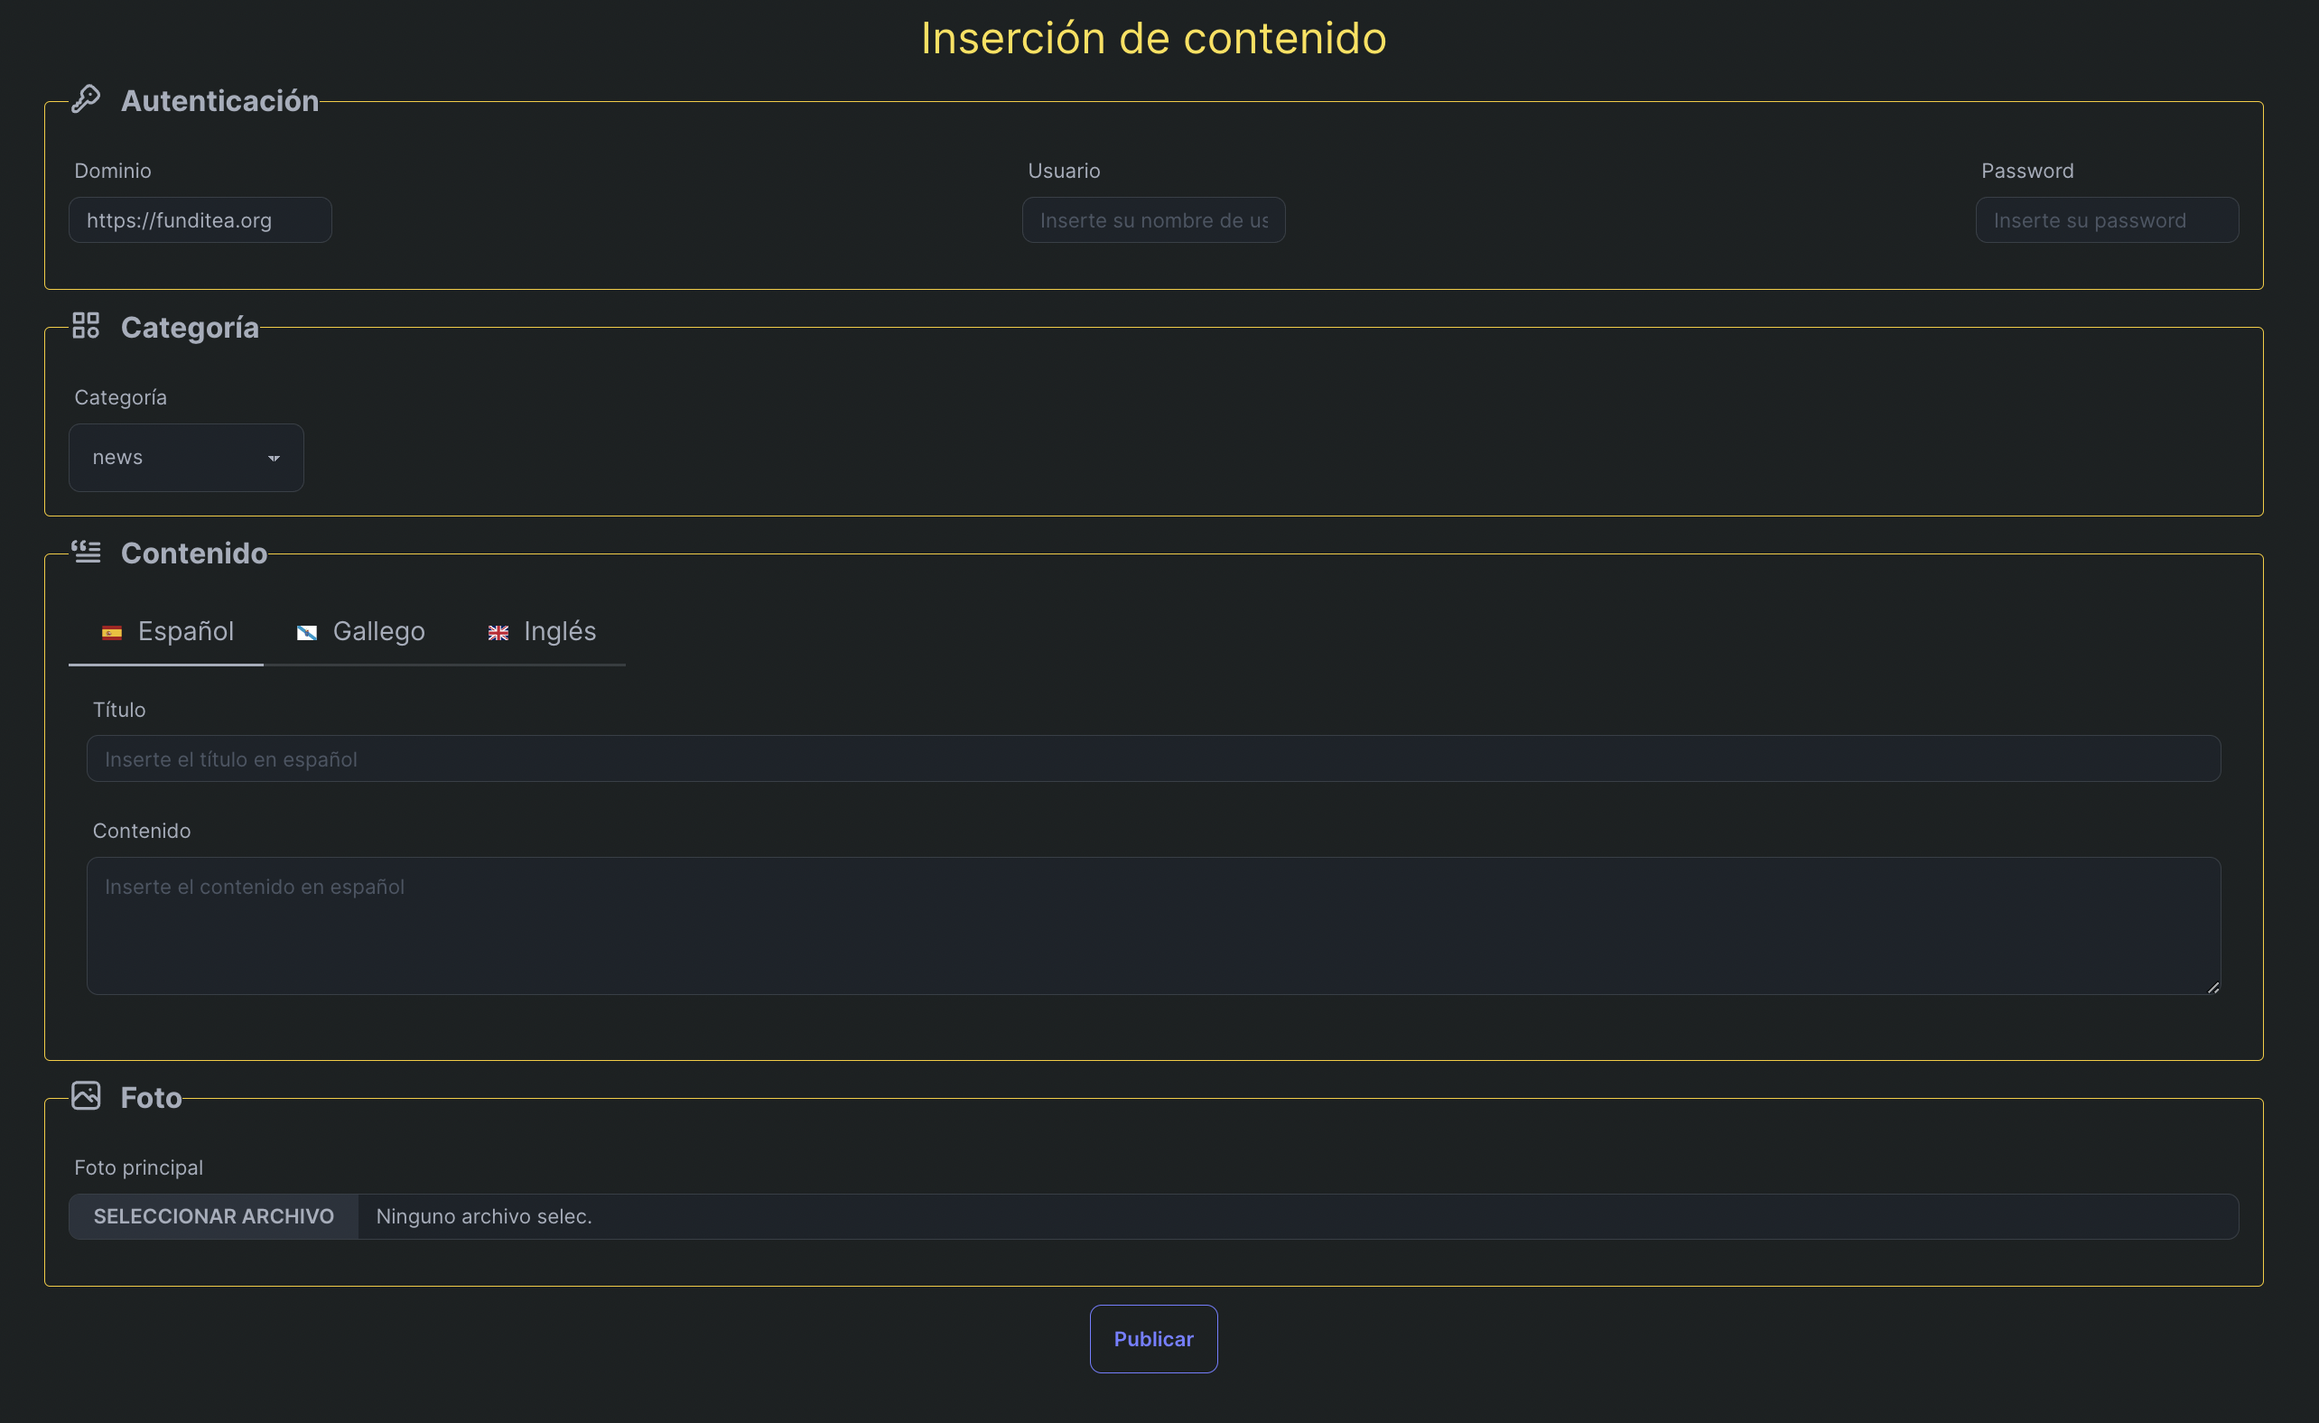
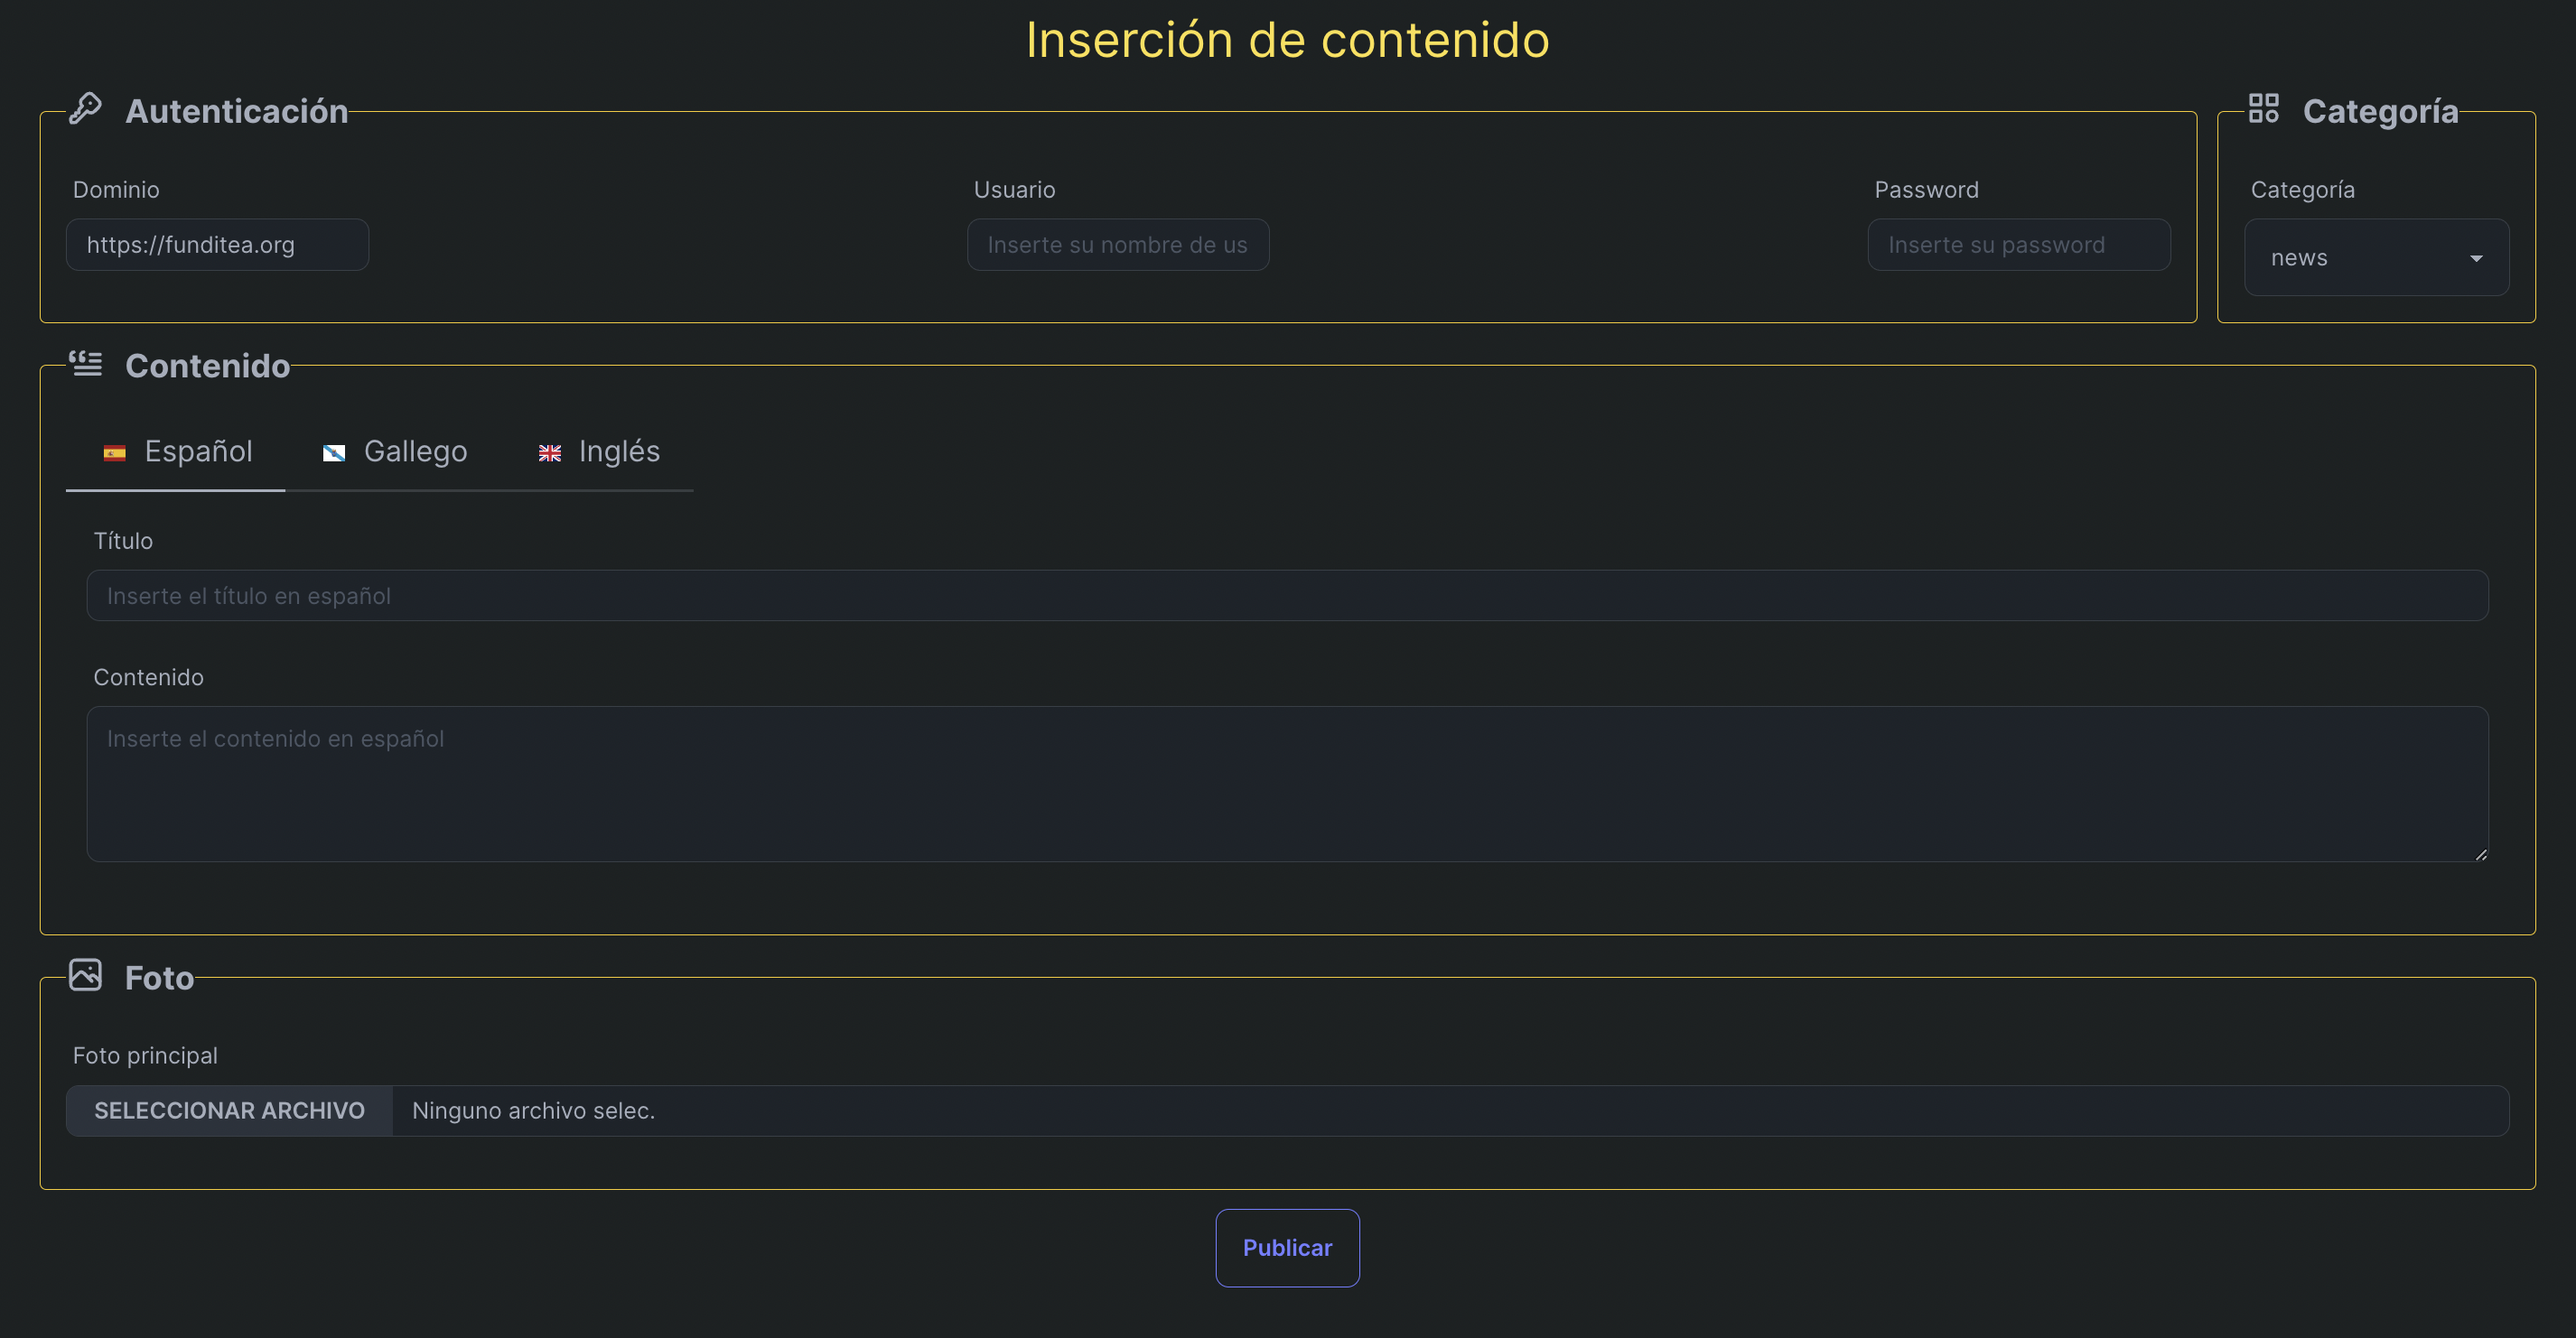
refactor

diff --git a/src/app/page.tsx b/src/app/page.tsx
@@ -12,6 +12,10 @@ import {useWindowSize} from 'react-use'
 import {ToastContainer, toast} from 'react-toastify'
 import 'react-toastify/dist/ReactToastify.css'
 import {IconBlockquote, IconCategory, IconKey, IconPhoto} from '@tabler/icons-react'
+import Autentication from './sections/autentication'
+import Category from './sections/category'
+import Content from './sections/content'
+import Picture from './sections/picture'
 
 function Home() {
   const [state, dispatch] = useFormState(wordpressAction, {message: null, errors: {}})
@@ -41,141 +45,13 @@ function Home() {
         {state.message}
       </div>
       <form action={dispatch} className="flex flex-col gap-3">
-        <fieldset className="border border-yellow-400 rounded p-4 flex flex-col">
-          <legend className="font-bold text-xl flex gap-3">
-            <IconKey /> Autenticación
-          </legend>
+        <div className="flex flex-col lg:flex-row grow gap-3 justify-between">
+          <Autentication state={state} />
+          <Category state={state} />
+        </div>
+        <Content state={state} />
+        <Picture state={state} />
 
-          <div className="flex flex-col justify-between gap-3 sm:flex-row">
-            <InputControl
-              value="https://funditea.org"
-              title="Dominio"
-              name="domain"
-              placeholder="Inserte el dominio. Ej https://cocacola.com"
-              errors={state.errors?.domain}
-            />
-            <InputControl
-              value=""
-              title="Usuario"
-              name="username"
-              placeholder="Inserte su nombre de usuario"
-              errors={state.errors?.username}
-            />
-            <InputControl
-              value=""
-              type="password"
-              title="Password"
-              name="password"
-              placeholder="Inserte su password"
-              errors={state.errors?.password}
-            />
-          </div>
-        </fieldset>
-        <fieldset className="border border-yellow-400 rounded p-4 flex flex-col">
-          <legend className="font-bold text-xl flex gap-3">
-            <IconCategory /> Categoría
-          </legend>
-          <SelectControl
-            title="Categoría"
-            name="category"
-            defaultValue="news"
-            options={['campaing', 'news', 'financiations', 'annualAccounts']}
-          />
-        </fieldset>
-        <fieldset className="border border-yellow-400 rounded p-4 flex flex-col">
-          <legend className="font-bold text-xl flex gap-3">
-            <IconBlockquote /> Contenido
-          </legend>
-
-          <div role="tablist" className="tabs tabs-bordered tabs-lg">
-            <input
-              type="radio"
-              defaultChecked={true}
-              name="my_tabs_1"
-              role="tab"
-              className={`tab before:content-flagES before:mr-2 ${
-                state.errors?.titleES || state.errors?.contentES ? 'text-red-400' : ''
-              }`}
-              aria-label="Español"
-            />
-            <div role="tabpanel" className="tab-content p-3">
-              <InputControl
-                title="Título"
-                name="titleES"
-                placeholder="Inserte el título en español"
-                errors={state.errors?.titleES}
-              />
-              <InputControl
-                type="textarea"
-                title="Contenido"
-                name="contentES"
-                placeholder="Inserte el contenido en español"
-                errors={state.errors?.contentES}
-              />
-            </div>
-            <input
-              type="radio"
-              name="my_tabs_1"
-              role="tab"
-              aria-label="Gallego"
-              className={`tab before:content-flagGL before:mr-2 ${
-                state.errors?.titleGL || state.errors?.contentGL ? 'text-red-400' : ''
-              }`}
-            />
-            <div role="tabpanel" className="tab-content p-3">
-              <InputControl
-                title="Título"
-                name="titleGL"
-                placeholder="Inserte el título en gallego"
-                errors={state.errors?.titleGL}
-              />
-              <InputControl
-                type="textarea"
-                title="Contenido"
-                name="contentGL"
-                placeholder="Inserte el contenido en gallego"
-                errors={state.errors?.contentGL}
-              />
-            </div>
-            <input
-              type="radio"
-              name="my_tabs_1"
-              role="tab"
-              aria-label="Inglés"
-              className={`tab before:content-flagEN before:mr-2 ${
-                state.errors?.titleEN || state.errors?.contentEN ? 'text-red-400' : ''
-              }`}
-            />
-            <div role="tabpanel" className="tab-content p-3">
-              <InputControl
-                title="Título"
-                name="titleEN"
-                placeholder="Inserte el título en ingles"
-                errors={state.errors?.titleEN}
-              />
-              <InputControl
-                type="textarea"
-                title="Contenido"
-                name="contentEN"
-                placeholder="Inserte el contenido en ingles"
-                errors={state.errors?.contentEN}
-              />
-            </div>
-          </div>
-        </fieldset>
-
-        <fieldset className="border border-yellow-400 rounded p-4 flex flex-col">
-          <legend className="font-bold text-xl flex gap-3">
-            <IconPhoto /> Foto
-          </legend>
-          <FileControl
-            title="Foto principal"
-            accept="image/*,.pdf"
-            name="file"
-            placeholder="Inserte una imagen"
-            errors={state.errors?.file}
-          />
-        </fieldset>
         {/* <ConfettiButton /> */}
         <SubmitButton className="btn btn-outline btn-primary self-center">Publicar</SubmitButton>
       </form>

diff --git a/src/app/sections/content.tsx b/src/app/sections/content.tsx
@@ -1,0 +1,94 @@
+import {IconBlockquote} from '@tabler/icons-react'
+import React from 'react'
+import InputControl from '../components/input-control'
+import {State} from '../actions/wordpressAction'
+interface Props {
+  state: State
+}
+function Content({state}: Props) {
+  return (
+    <fieldset className="border border-yellow-400 rounded p-4 flex flex-col">
+      <legend className="font-bold text-xl flex gap-3">
+        <IconBlockquote /> Contenido
+      </legend>
+
+      <div role="tablist" className="tabs tabs-bordered tabs-lg">
+        <input
+          type="radio"
+          defaultChecked={true}
+          name="my_tabs_1"
+          role="tab"
+          className={`tab before:content-flagES before:mr-2 ${
+            state.errors?.titleES || state.errors?.contentES ? 'text-red-400' : ''
+          }`}
+          aria-label="Español"
+        />
+        <div role="tabpanel" className="tab-content p-3">
+          <InputControl
+            title="Título"
+            name="titleES"
+            placeholder="Inserte el título en español"
+            errors={state.errors?.titleES}
+          />
+          <InputControl
+            type="textarea"
+            title="Contenido"
+            name="contentES"
+            placeholder="Inserte el contenido en español"
+            errors={state.errors?.contentES}
+          />
+        </div>
+        <input
+          type="radio"
+          name="my_tabs_1"
+          role="tab"
+          aria-label="Gallego"
+          className={`tab before:content-flagGL before:mr-2 ${
+            state.errors?.titleGL || state.errors?.contentGL ? 'text-red-400' : ''
+          }`}
+        />
+        <div role="tabpanel" className="tab-content p-3">
+          <InputControl
+            title="Título"
+            name="titleGL"
+            placeholder="Inserte el título en gallego"
+            errors={state.errors?.titleGL}
+          />
+          <InputControl
+            type="textarea"
+            title="Contenido"
+            name="contentGL"
+            placeholder="Inserte el contenido en gallego"
+            errors={state.errors?.contentGL}
+          />
+        </div>
+        <input
+          type="radio"
+          name="my_tabs_1"
+          role="tab"
+          aria-label="Inglés"
+          className={`tab before:content-flagEN before:mr-2 ${
+            state.errors?.titleEN || state.errors?.contentEN ? 'text-red-400' : ''
+          }`}
+        />
+        <div role="tabpanel" className="tab-content p-3">
+          <InputControl
+            title="Título"
+            name="titleEN"
+            placeholder="Inserte el título en ingles"
+            errors={state.errors?.titleEN}
+          />
+          <InputControl
+            type="textarea"
+            title="Contenido"
+            name="contentEN"
+            placeholder="Inserte el contenido en ingles"
+            errors={state.errors?.contentEN}
+          />
+        </div>
+      </div>
+    </fieldset>
+  )
+}
+
+export default Content

diff --git a/src/app/sections/autentication.tsx b/src/app/sections/autentication.tsx
@@ -1,0 +1,44 @@
+import {IconKey} from '@tabler/icons-react'
+import React from 'react'
+import InputControl from '../components/input-control'
+import {State} from '../actions/wordpressAction'
+
+interface Props {
+  state: State
+}
+function Autentication({state}: Props) {
+  return (
+    <fieldset className="border border-yellow-400 rounded p-4 flex flex-col grow">
+      <legend className="font-bold text-xl flex gap-3">
+        <IconKey /> Autenticación
+      </legend>
+
+      <div className="flex flex-col justify-between gap-3 sm:flex-row">
+        <InputControl
+          value="https://funditea.org"
+          title="Dominio"
+          name="domain"
+          placeholder="Inserte el dominio. Ej https://cocacola.com"
+          errors={state.errors?.domain}
+        />
+        <InputControl
+          value=""
+          title="Usuario"
+          name="username"
+          placeholder="Inserte su nombre de usuario"
+          errors={state.errors?.username}
+        />
+        <InputControl
+          value=""
+          type="password"
+          title="Password"
+          name="password"
+          placeholder="Inserte su password"
+          errors={state.errors?.password}
+        />
+      </div>
+    </fieldset>
+  )
+}
+
+export default Autentication

diff --git a/src/app/sections/category.tsx b/src/app/sections/category.tsx
@@ -1,0 +1,24 @@
+import {IconCategory} from '@tabler/icons-react'
+import React from 'react'
+import SelectControl from '../components/select-control'
+import {State} from '../actions/wordpressAction'
+interface Props {
+  state: State
+}
+function Category({state}: Props) {
+  return (
+    <fieldset className="border border-yellow-400 rounded p-4 flex flex-col">
+      <legend className="font-bold text-xl flex gap-3">
+        <IconCategory /> Categoría
+      </legend>
+      <SelectControl
+        title="Categoría"
+        name="category"
+        defaultValue="news"
+        options={['campaing', 'news', 'financiations', 'annualAccounts']}
+      />
+    </fieldset>
+  )
+}
+
+export default Category

diff --git a/src/app/sections/picture.tsx b/src/app/sections/picture.tsx
@@ -1,0 +1,25 @@
+import {IconPhoto} from '@tabler/icons-react'
+import React from 'react'
+import FileControl from '../components/file-control'
+import {State} from '../actions/wordpressAction'
+interface Props {
+  state: State
+}
+function Picture({state}: Props) {
+  return (
+    <fieldset className="border border-yellow-400 rounded p-4 flex flex-col">
+      <legend className="font-bold text-xl flex gap-3">
+        <IconPhoto /> Foto
+      </legend>
+      <FileControl
+        title="Foto principal"
+        accept="image/*,.pdf"
+        name="file"
+        placeholder="Inserte una imagen"
+        errors={state.errors?.file}
+      />
+    </fieldset>
+  )
+}
+
+export default Picture
